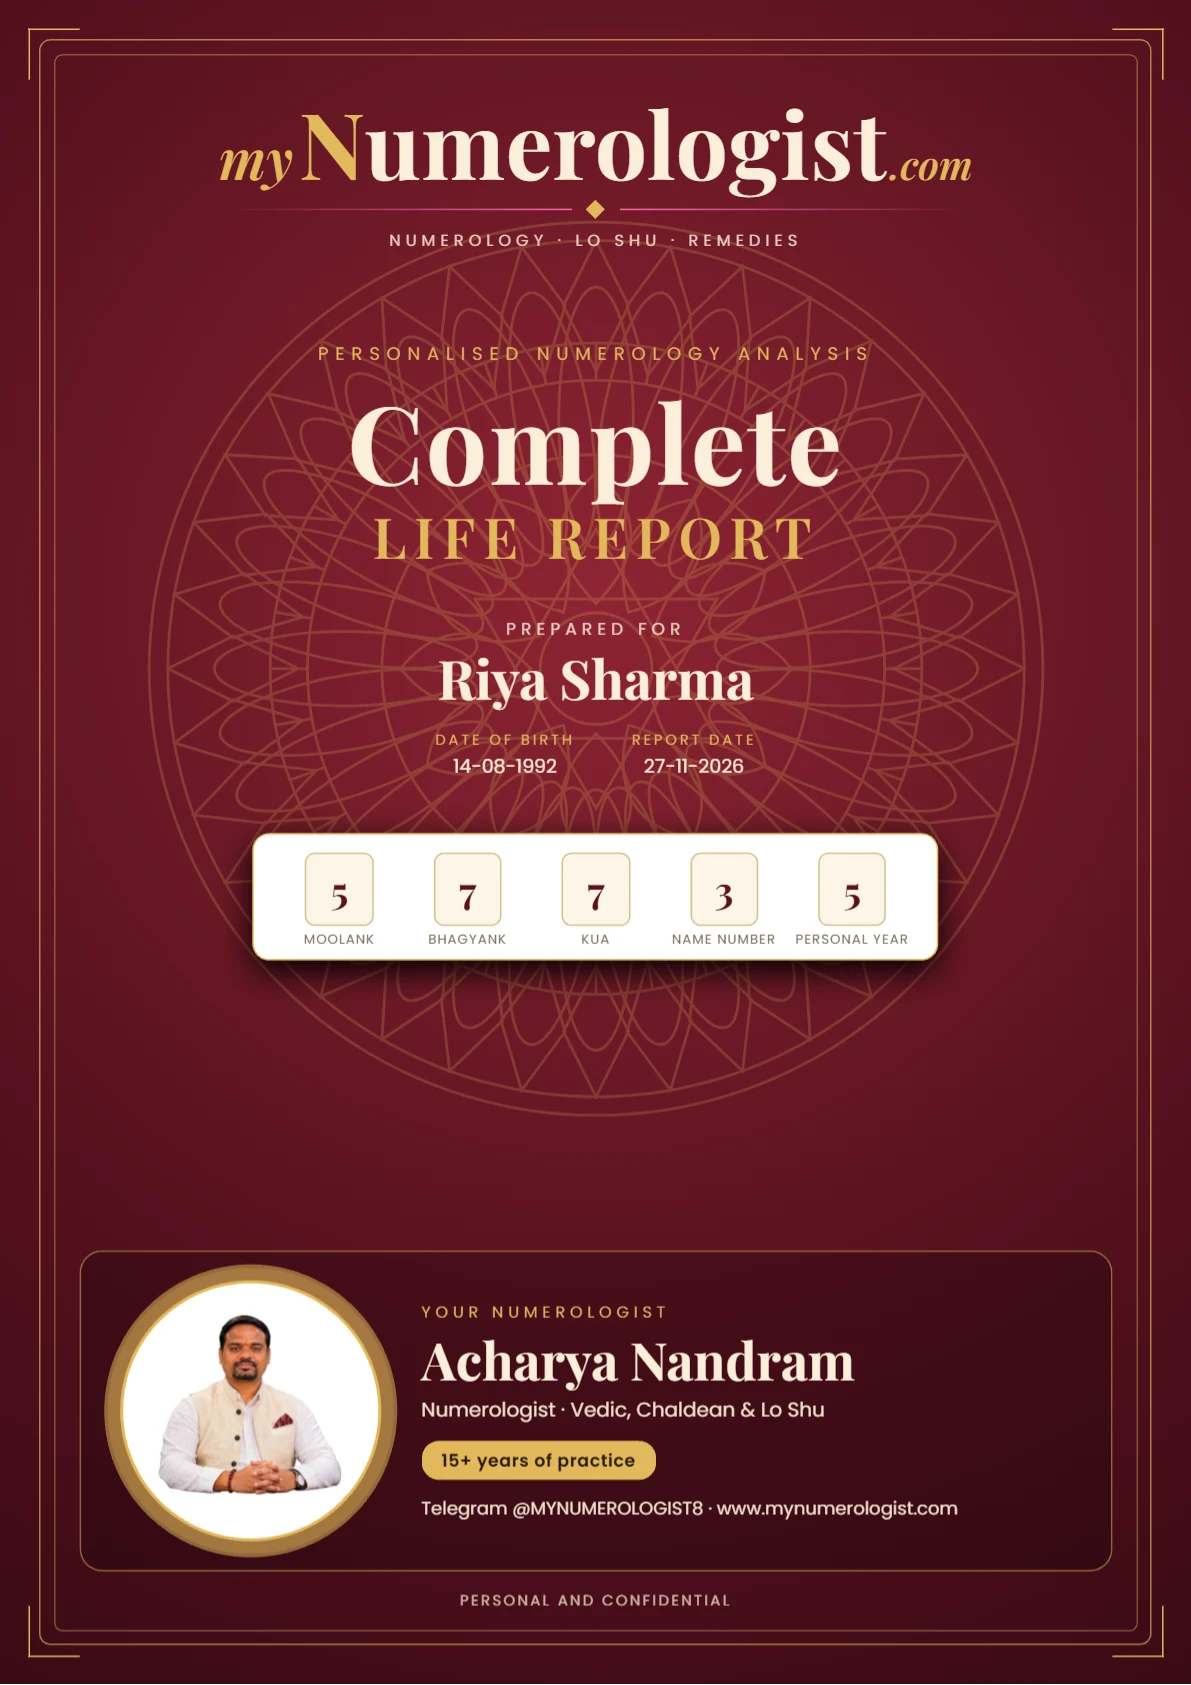
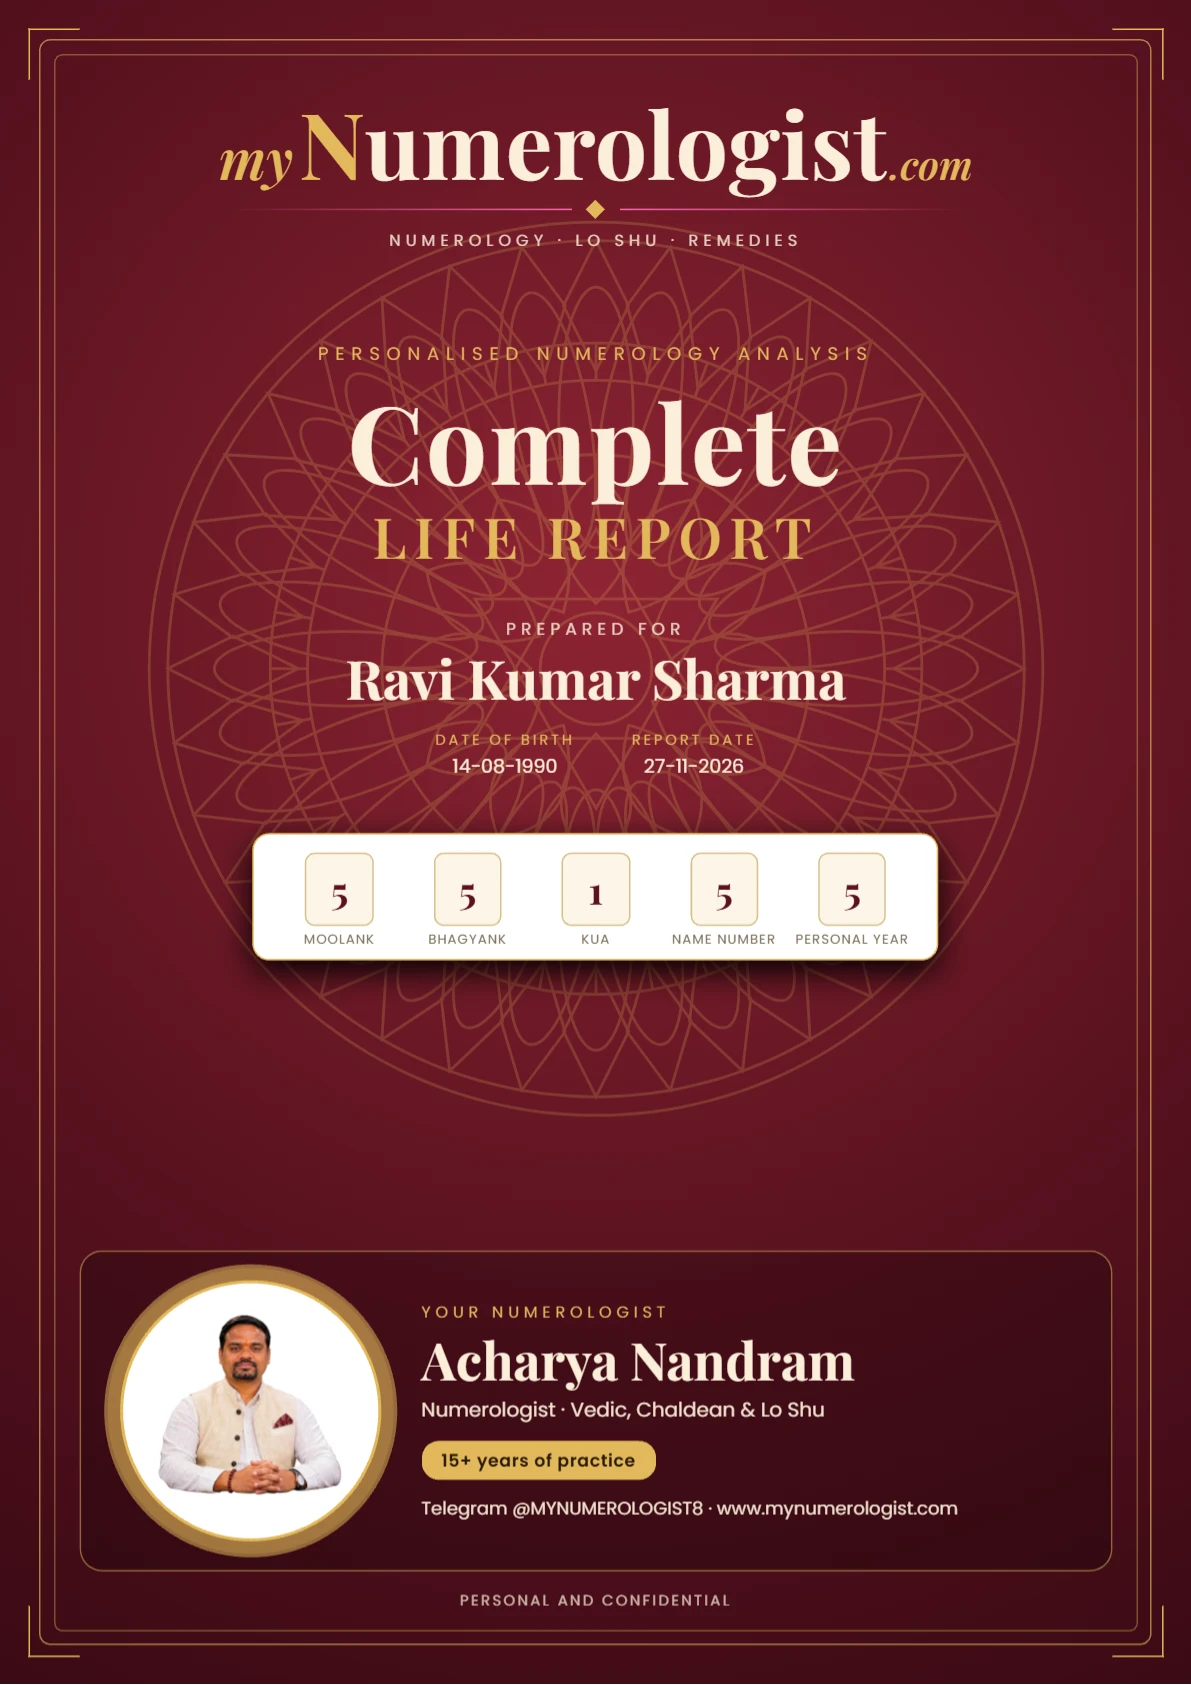
chore(samples): update sample report preview images to Ravi Kumar Sharma Complete Life Report

Changed region(s): [[0.2796, 0.3703, 0.7145, 0.4629], [0.3728, 0.5246, 0.4039, 0.5555]]

diff --git a/src/components/services/inside-report.tsx b/src/components/services/inside-report.tsx
@@ -33,8 +33,8 @@ const SIGNATURE_PAGES: ReportPage[] = [
 const PERSONAL_PAGES: ReportPage[] = [
   { src: '/images/personal-report/cover.webp', caption: { en: 'Cover – your profile, core numbers & destiny chart', hi: 'मुखपृष्ठ – आपकी प्रोफ़ाइल, मूल अंक और भाग्य चार्ट' } },
   { src: '/images/personal-report/grid.webp', caption: { en: 'Lo Shu 3×3 Grid – energy planes, missing & repeated numbers', hi: 'लो शू ग्रिड – ऊर्जा तल, अनुपस्थित और दोहराए गए अंक' } },
-  { src: '/images/personal-report/forecast.webp', caption: { en: 'Career, money & answers to your 3 personal questions', hi: 'करियर, धन और आपके 3 व्यक्तिगत प्रश्नों के उत्तर' } },
-  { src: '/images/personal-report/remedies.webp', caption: { en: 'Personal remedies – colours, days, mantra & daan', hi: 'व्यक्तिगत उपाय – रंग, दिन, मंत्र और दान' } },
+  { src: '/images/personal-report/forecast.webp', caption: { en: 'Timing & Forecast – 9-year Personal Year chart & monthly cycle', hi: 'समय और भविष्यफल – 9-वर्षीय व्यक्तिगत वर्ष और मासिक चक्र' } },
+  { src: '/images/personal-report/remedies.webp', caption: { en: 'Remedies & Solutions – lucky colours, days, gemstone & mantra', hi: 'व्यक्तिगत उपाय – शुभ रंग, दिन, रत्न और मंत्र' } },
 ];
 
 

diff --git a/scripts/render-actual-samples.ts b/scripts/render-actual-samples.ts
@@ -14,12 +14,12 @@ const SYSTEM_CHROME_PATHS = [
 async function run() {
   const result = generateNumerology(
     {
-      fullName: 'Riya Sharma',
-      commonName: 'Riya Sharma',
-      gender: 'female',
-      dob: '14-08-1992',
-      profession: 'Architect',
-      maritalStatus: 'single',
+      fullName: 'Ravi Kumar Sharma',
+      commonName: 'Ravi Kumar Sharma',
+      gender: 'male',
+      dob: '14-08-1990',
+      profession: 'Business & Consulting',
+      maritalStatus: 'married',
       city: 'Jaipur',
       state: 'Rajasthan',
       concerns: ['career', 'money', 'marriage'],
